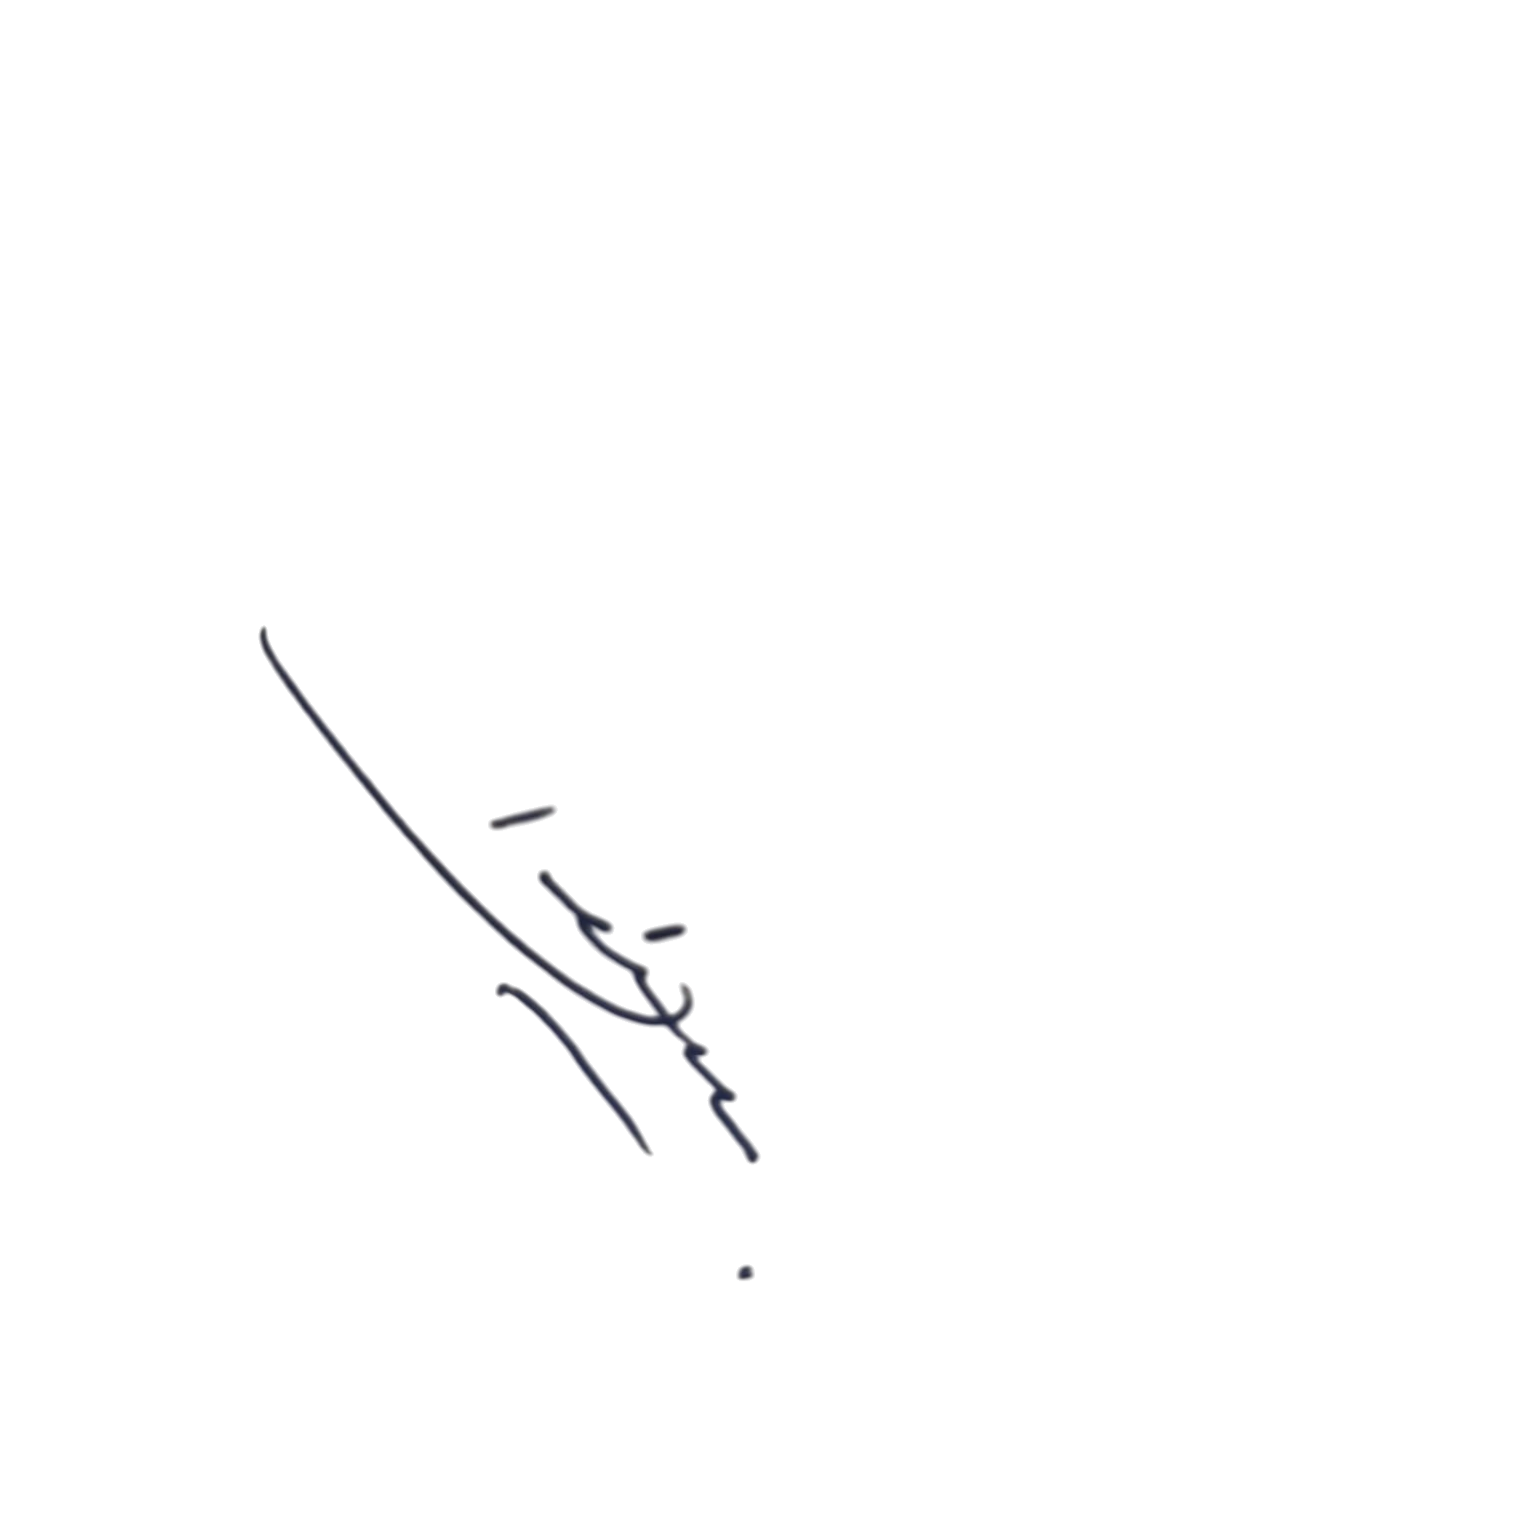
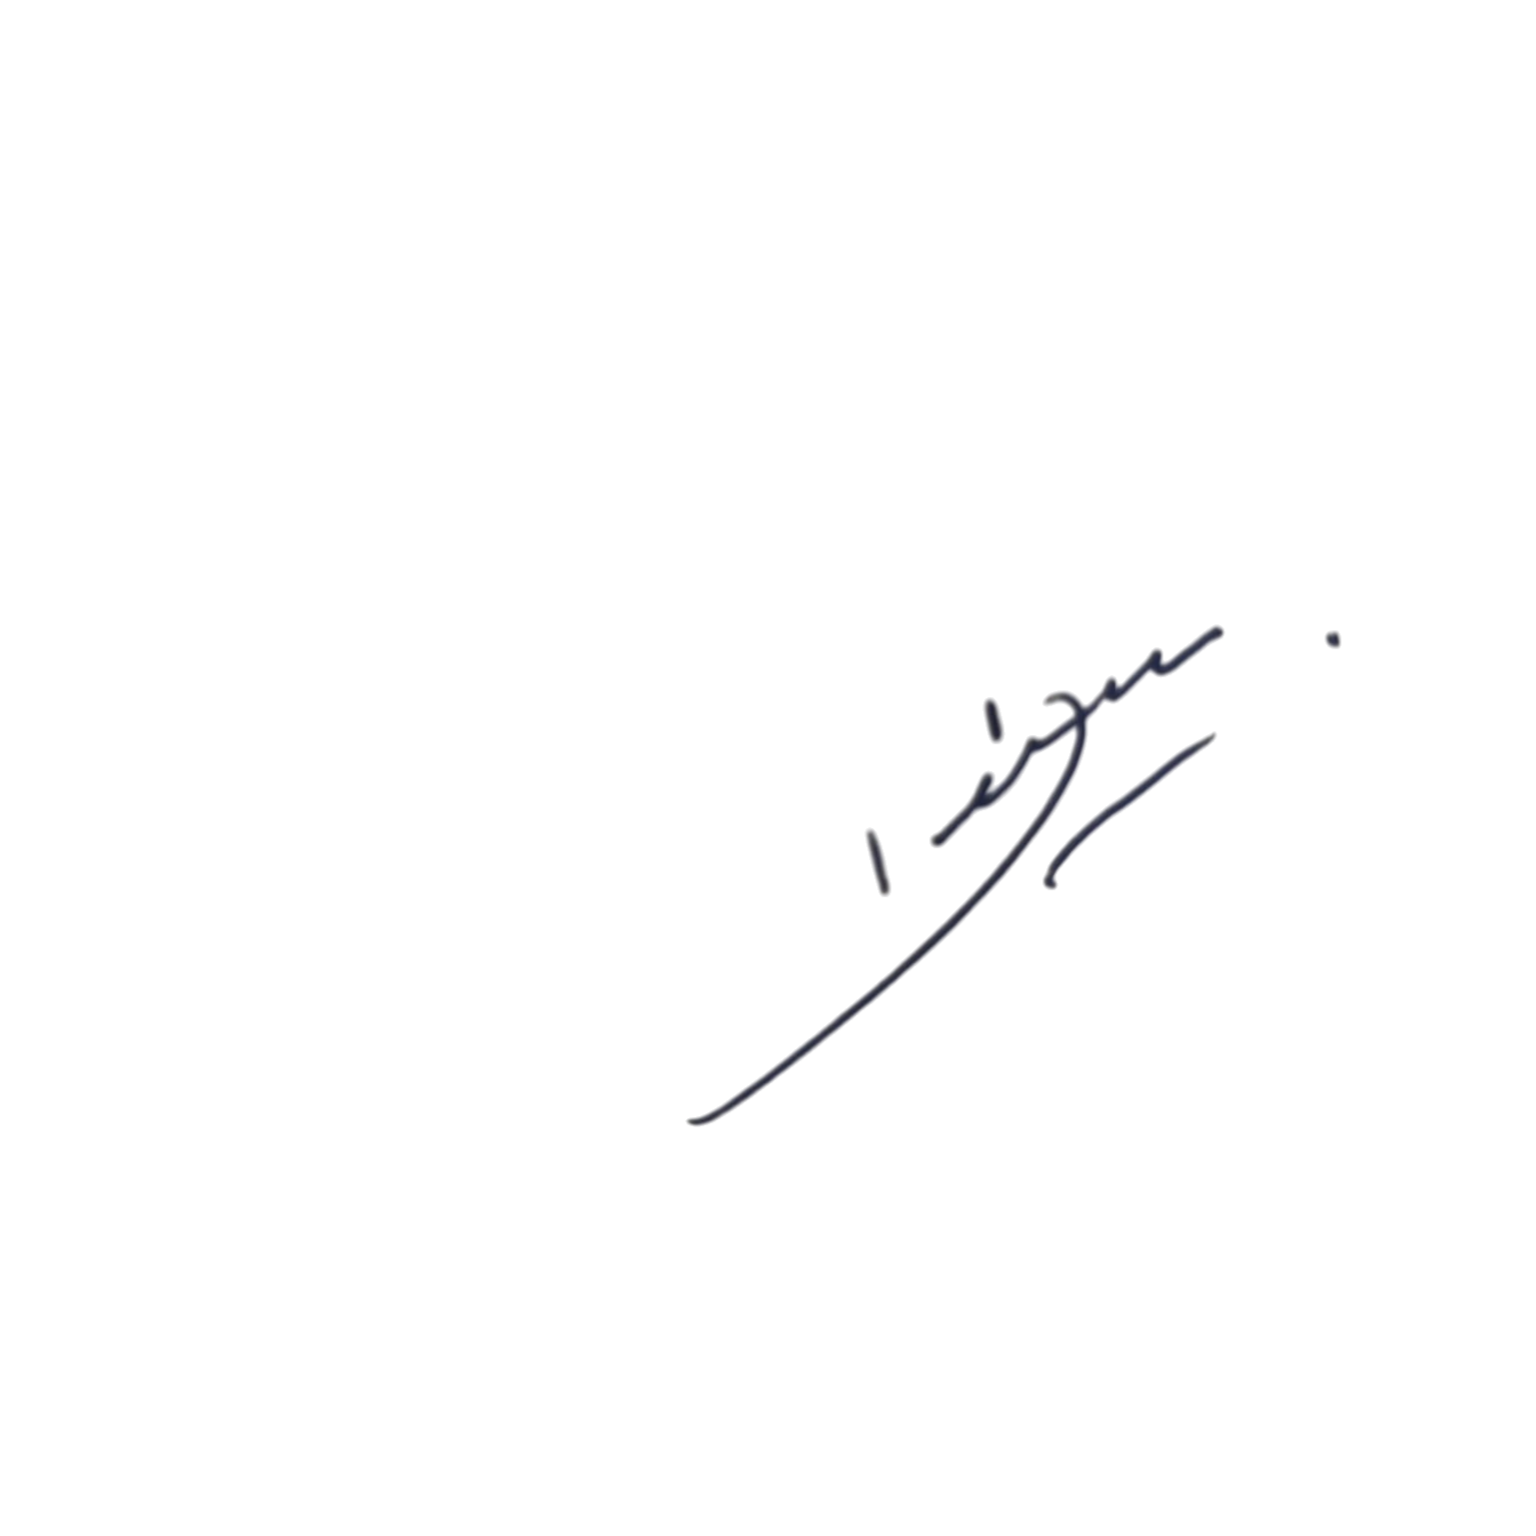
style: update Director signature image and increase size in template

diff --git a/src/modules/payments/invoice_template.html b/src/modules/payments/invoice_template.html
@@ -245,7 +245,7 @@
     <div class="sign-row">
       <div class="sign-col">
         <div class="sign-line">
-          <img src="{{signature_img}}" style="max-height: 90px; position: absolute; bottom: -15px; left: 50%; transform: translateX(-50%) rotate(-10deg); z-index: 1; display: {{signature_display}};" alt="Director Signature">
+          <img src="{{signature_img}}" style="max-height: 120px; position: absolute; bottom: -20px; left: 50%; transform: translateX(-50%) rotate(-10deg); z-index: 1; display: {{signature_display}};" alt="Director Signature">
         </div>
         <div class="sign-label">Director</div>
         <div>GR Class</div>
